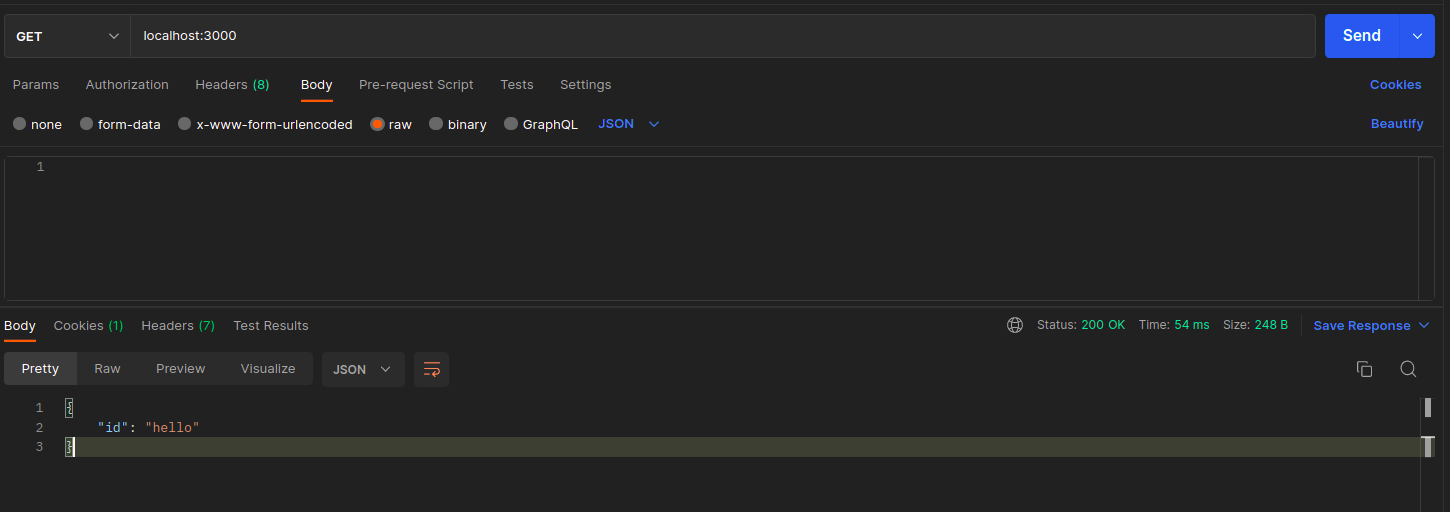
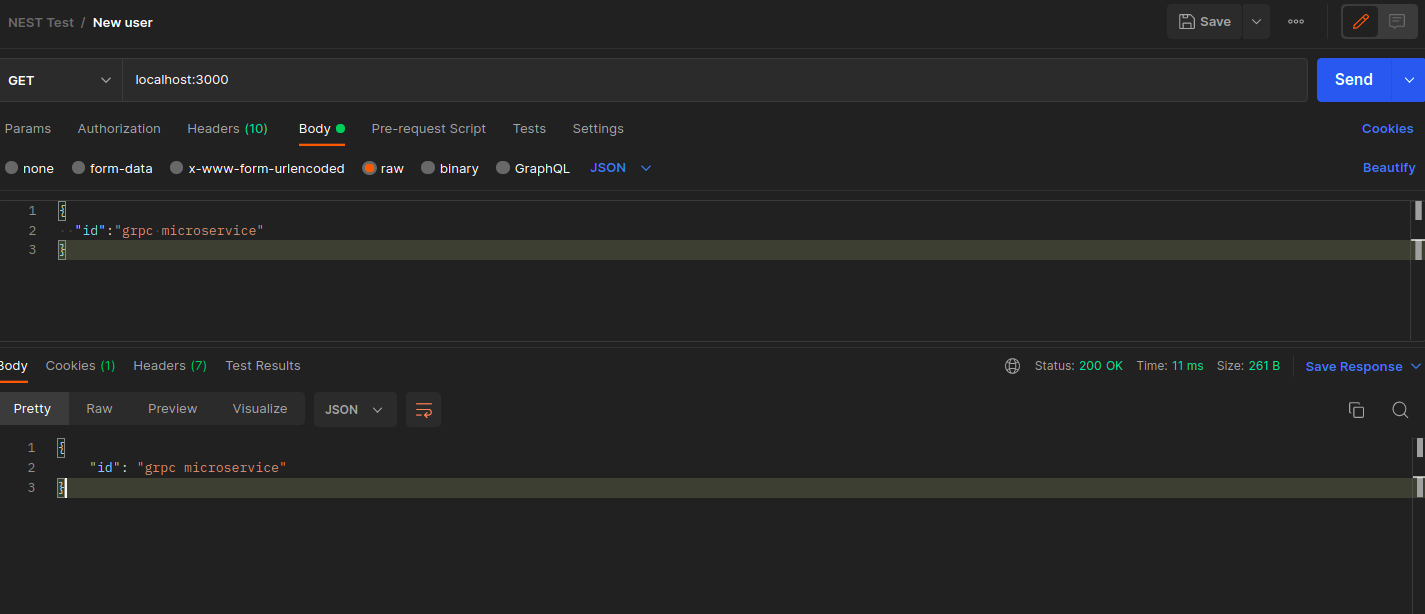
Fixed static input

diff --git a/server/src/hero/hero.contoller.ts b/server/src/hero/hero.contoller.ts
@@ -1,5 +1,5 @@
 import { Metadata, ServerUnaryCall } from '@grpc/grpc-js';
-import { Controller } from '@nestjs/common';
+import { Controller, Logger } from '@nestjs/common';
 import { GrpcMethod } from '@nestjs/microservices';
 
 export interface HeroId {
@@ -8,17 +8,23 @@ export interface HeroId {
 export interface Hero {
   id: string;
 }
+
+
 @Controller()
 export class HeroController {
+  private readonly logger = new Logger(HeroController.name);
+
   @GrpcMethod('HeroService', 'Hello')
   hello(
     data: HeroId,
     metadata: Metadata,
     call: ServerUnaryCall<any, any>,
   ): Hero {
-    const items = [{ id: 'hello' }];
+    this.logger.log(
+      `The microservice has been called with the data of ${data.id}`,
+    );
     return {
-      id: items[0].id,
+      id: data.id,
     };
   }
 }

diff --git a/client/src/app.controller.ts b/client/src/app.controller.ts
@@ -1,4 +1,4 @@
-import { Controller, Get } from '@nestjs/common';
+import { Body, Controller, Get } from '@nestjs/common';
 import { Observable } from 'rxjs';
 import { AppService } from './app.service';
 
@@ -7,7 +7,7 @@ export class AppController {
   constructor(private readonly appService: AppService) {}
 
   @Get()
-  getHello(): Observable<string> {
-    return this.appService.hello();
+  getHello(@Body('id') id:string ): Observable<string> {
+    return this.appService.hello(id);
   }
 }

diff --git a/client/src/app.service.ts b/client/src/app.service.ts
@@ -19,7 +19,7 @@ export class AppService implements OnModuleInit {
     this.heroService = this.client.getService<HeroService>('HeroService');
   }
 
-  hello(): Observable<string> {
-    return this.heroService.hello({ id: '3' });
+  hello(id): Observable<string> {
+    return this.heroService.hello({ id });
   }
 }

diff --git a/server/src/app.service.ts b/server/src/app.service.ts
@@ -1,8 +1,4 @@
 import { Injectable } from '@nestjs/common';
 
 @Injectable()
-export class AppService {
-  getHello(): string {
-    return 'Hello World!';
-  }
-}
+export class AppService {}
